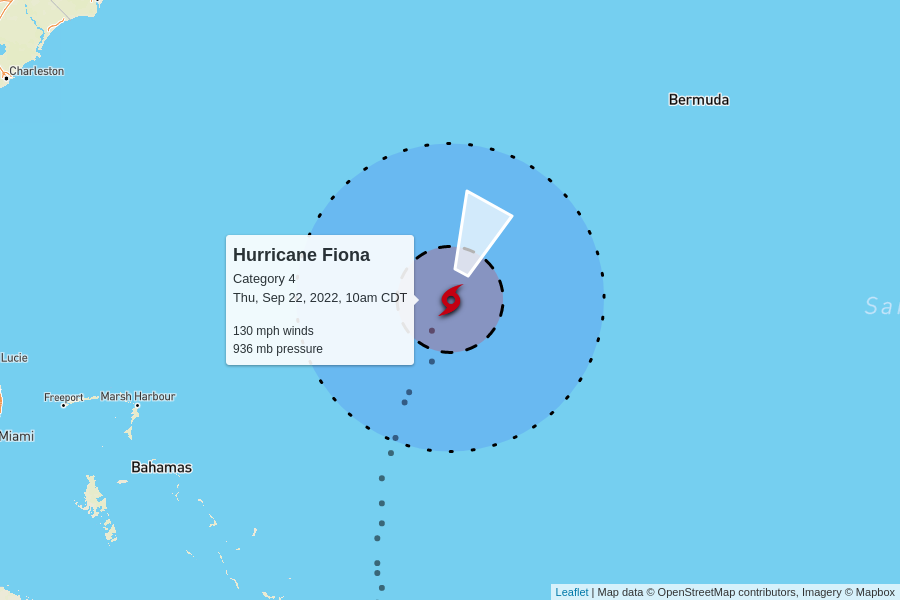
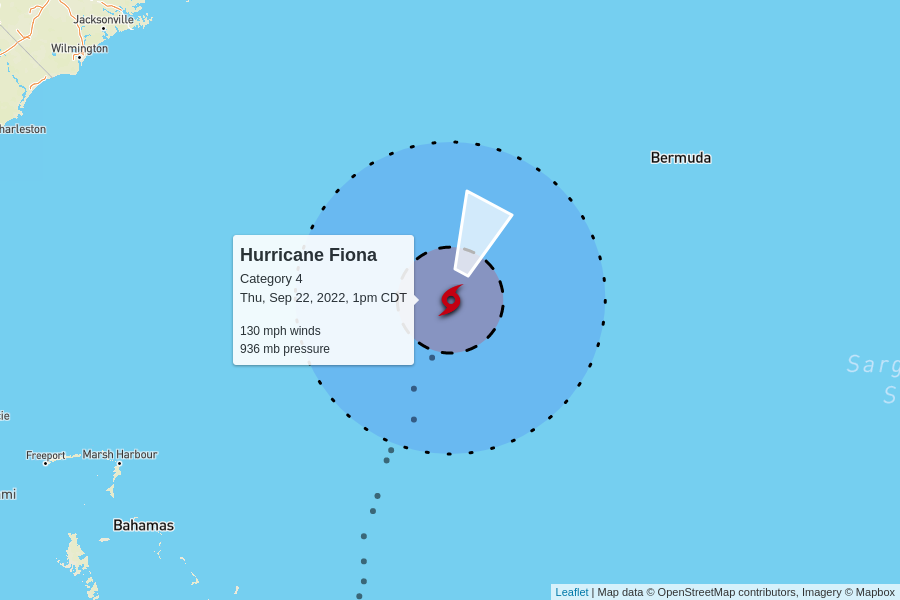
automatic update

diff --git a/docs/index.html b/docs/index.html
@@ -97,54 +97,10 @@
 
     <table>
       <tr>
-        <td colspan="6" class="storm category-4" >
-          <h2>
-            Hurricane Fiona - Category 4
-            <p class="updated">last updated <span data-time>2022-09-22T15:00:00.000Z</span></p>
-          </h2>
-        </td>
-      </tr>
-      
-      <tr>
-        <th class="spacer"></th>
-        <th>wind speed</th>
-        <th>central pressure</th>
-        <th>movement</th>
-        <th>data (CSV)</th>
-        <th>National Hurricane Center</th>
-      </tr>
-      <tr>
-        <td class="spacer"></td>
-        <td>130 mph</td>
-        <td>936 mb</td>
-        <td>
-          15 mph to the north-northeast
-          <br/>
-          <span style="display: inline-block; font-size: 1.5em; transform: rotate(25deg);">↑</span>
-        </td>
-        <td><a href="https://raw.githubusercontent.com/mgwalker/atlantic-hurricanes/main/data/csv/AL072022.csv">AL072022.csv</a></td>
-        <td><a href="https://www.nhc.noaa.gov/archive/2022/FIONA.shtml?">NHC advisories</a></td>
-      </tr>
-      <tr id="storm_AL072022" >
-        <td class="spacer">
-        <td colspan="5">
-          <figure>
-            <img src="AL072022.png">
-            <figcaption>
-              Map data &copy; <a href="https://www.openstreetmap.org/copyright">OpenStreetMap</a> contributors,
-              Imagery &copy; <a href="https://www.mapbox.com/">Mapbox</a> |
-              <a href="https://www.mapbox.com/map-feedback/" target="_blank">Improve this map</a>
-            </figcaption>
-          </figure>
-        </td>
-      </tr>
-      
-
-      <tr>
         <td colspan="6" class="storm category-0" >
           <h2>
             Tropical Storm Gaston
-            <p class="updated">last updated <span data-time>2022-09-22T15:00:00.000Z</span></p>
+            <p class="updated">last updated <span data-time>2022-09-22T18:00:00.000Z</span></p>
           </h2>
         </td>
       </tr>
@@ -174,6 +130,50 @@
         <td colspan="5">
           <figure>
             <img src="AL082022.png">
+            <figcaption>
+              Map data &copy; <a href="https://www.openstreetmap.org/copyright">OpenStreetMap</a> contributors,
+              Imagery &copy; <a href="https://www.mapbox.com/">Mapbox</a> |
+              <a href="https://www.mapbox.com/map-feedback/" target="_blank">Improve this map</a>
+            </figcaption>
+          </figure>
+        </td>
+      </tr>
+      
+
+      <tr>
+        <td colspan="6" class="storm category-4" >
+          <h2>
+            Hurricane Fiona - Category 4
+            <p class="updated">last updated <span data-time>2022-09-22T18:00:00.000Z</span></p>
+          </h2>
+        </td>
+      </tr>
+      
+      <tr>
+        <th class="spacer"></th>
+        <th>wind speed</th>
+        <th>central pressure</th>
+        <th>movement</th>
+        <th>data (CSV)</th>
+        <th>National Hurricane Center</th>
+      </tr>
+      <tr>
+        <td class="spacer"></td>
+        <td>130 mph</td>
+        <td>936 mb</td>
+        <td>
+          16 mph to the north-northeast
+          <br/>
+          <span style="display: inline-block; font-size: 1.5em; transform: rotate(25deg);">↑</span>
+        </td>
+        <td><a href="https://raw.githubusercontent.com/mgwalker/atlantic-hurricanes/main/data/csv/AL072022.csv">AL072022.csv</a></td>
+        <td><a href="https://www.nhc.noaa.gov/archive/2022/FIONA.shtml?">NHC advisories</a></td>
+      </tr>
+      <tr id="storm_AL072022" >
+        <td class="spacer">
+        <td colspan="5">
+          <figure>
+            <img src="AL072022.png">
             <figcaption>
               Map data &copy; <a href="https://www.openstreetmap.org/copyright">OpenStreetMap</a> contributors,
               Imagery &copy; <a href="https://www.mapbox.com/">Mapbox</a> |
